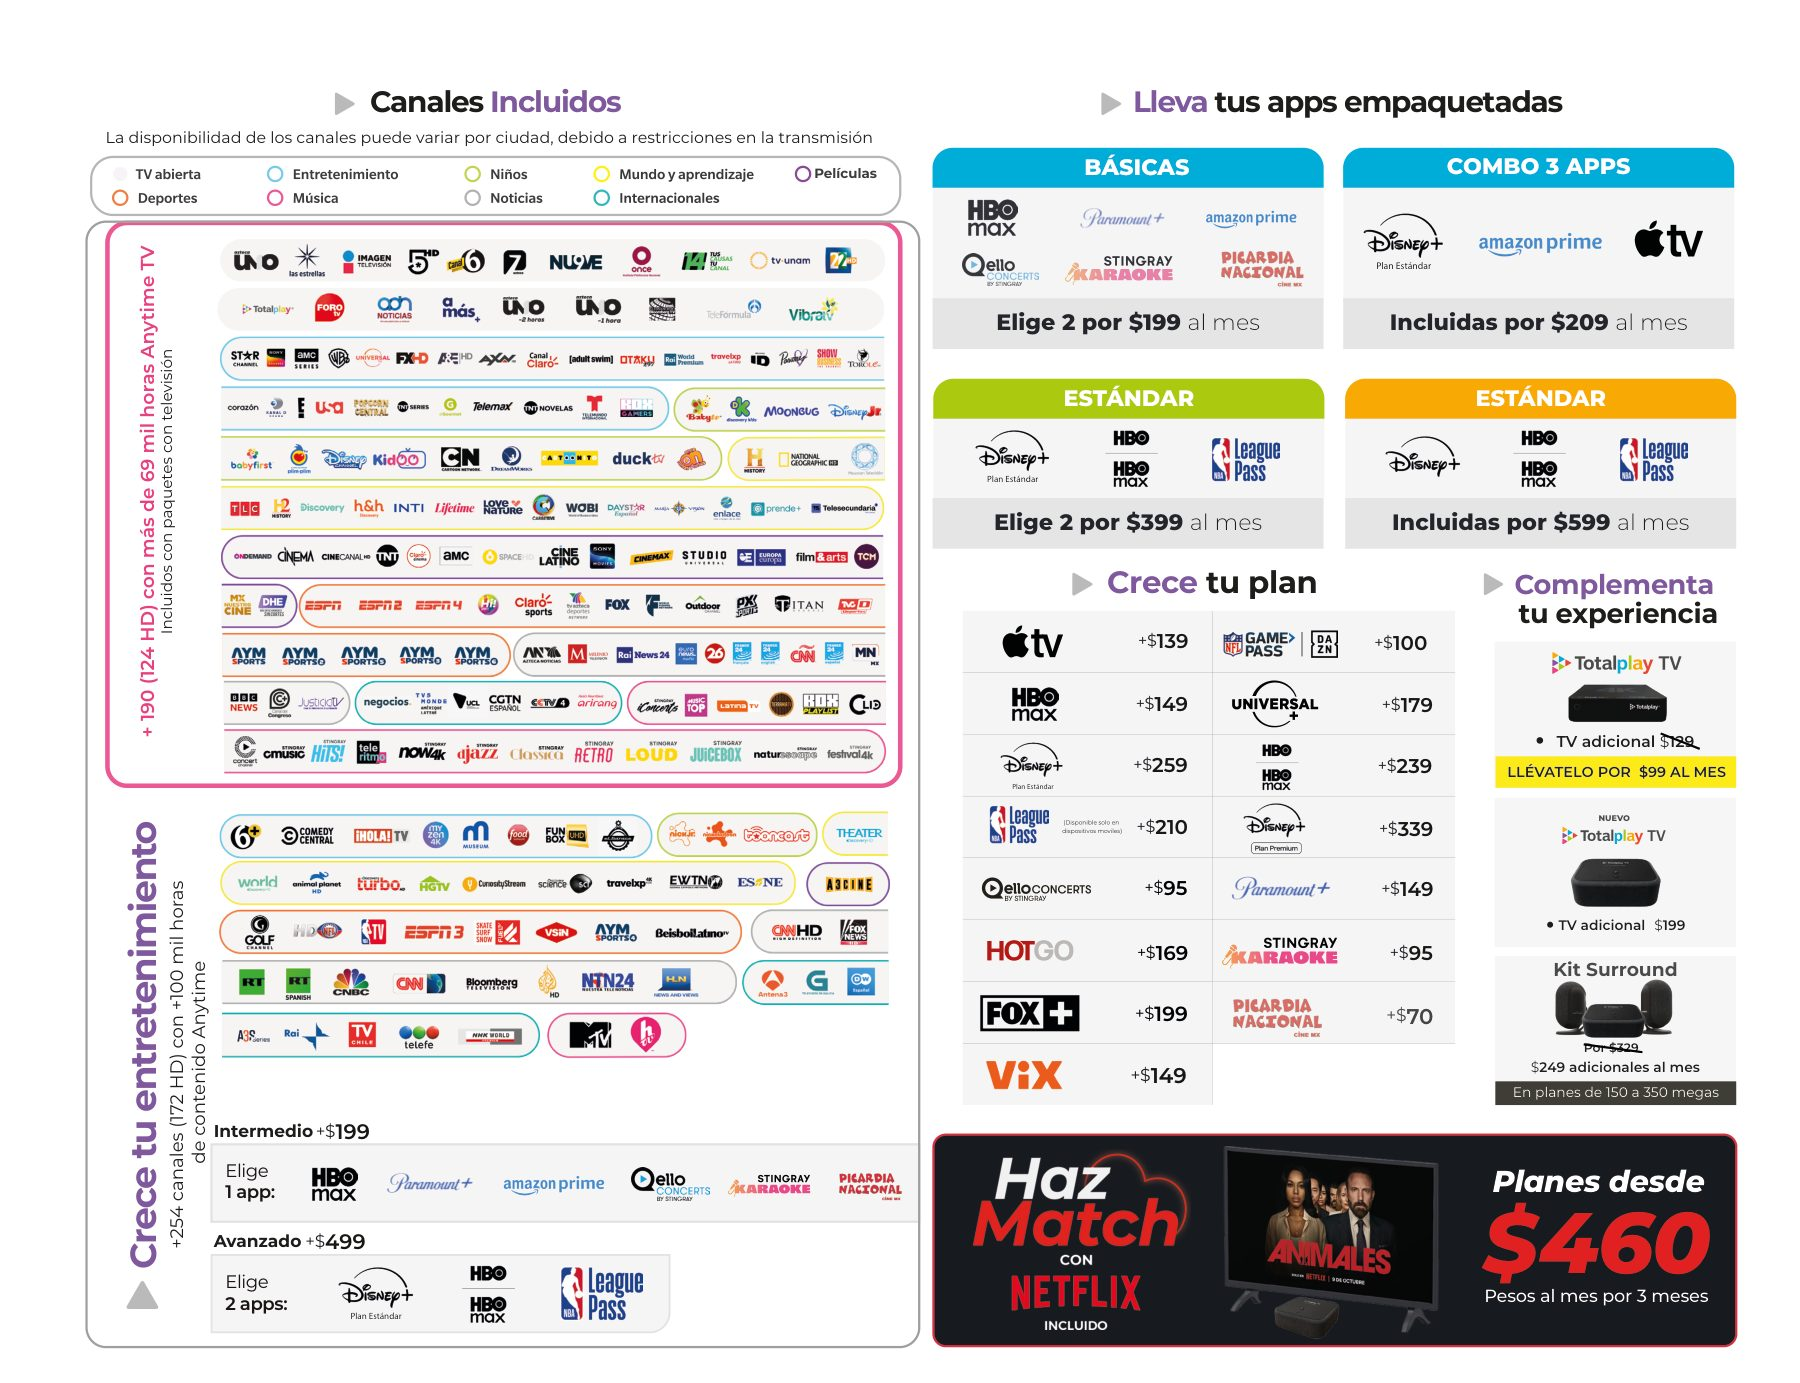
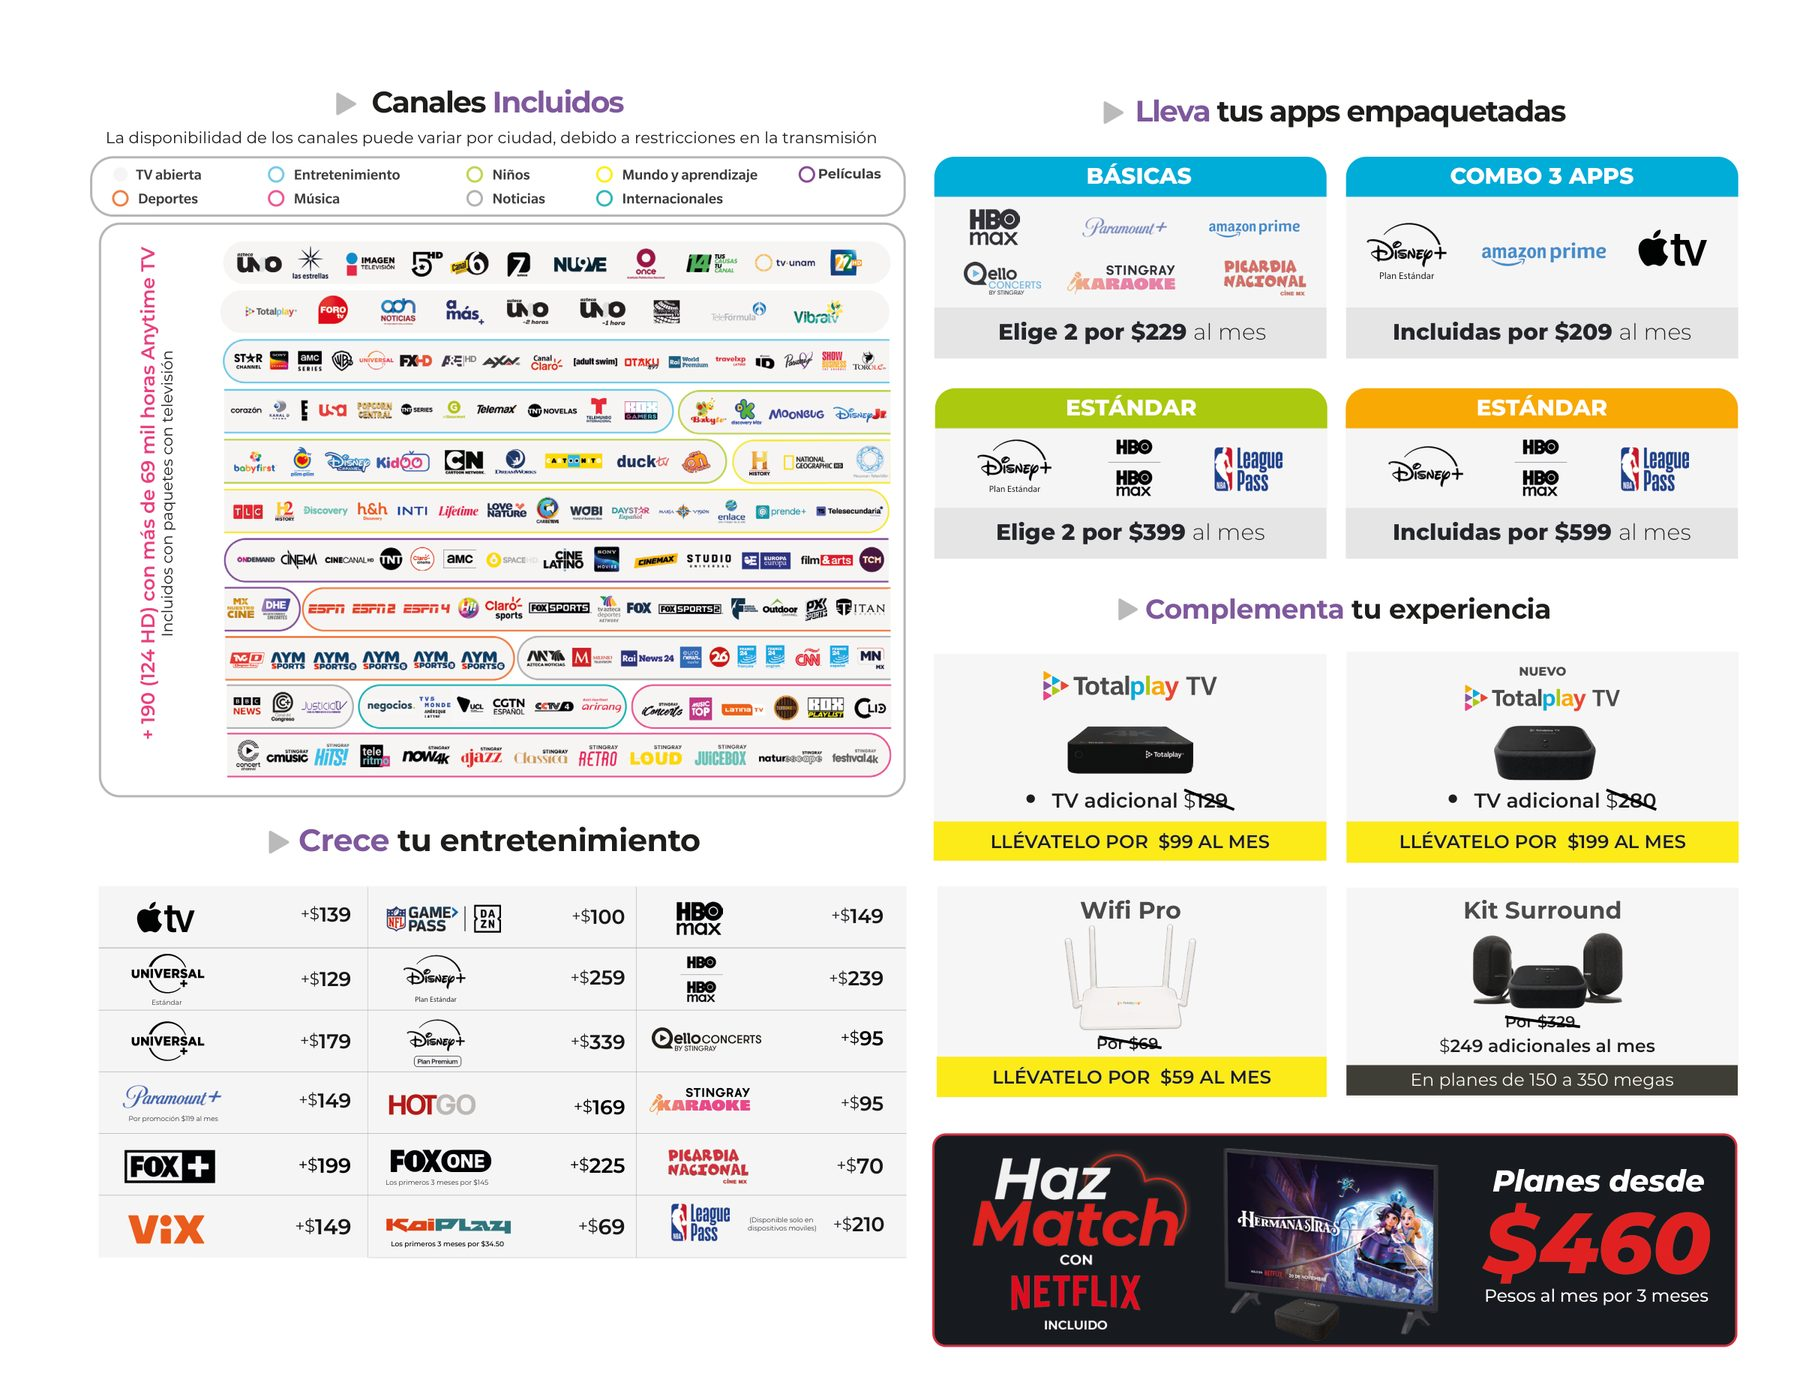
manteleta buen mes de noviembre y vigencias al 30 de noviembre, cache v54
Manteleta de Oferta Base "Buen Mes · La promocion ganadora" con las
dos hojas nuevas, vigente del 2 al 30 de noviembre de 2026. Planes y
Megas y las 4 secciones de Vende mas TIPs toman esa misma vigencia
(antes al 16 de noviembre). Cache v54.

Changed region(s): [[0.0311, 0.0622, 0.9644, 0.9645]]

diff --git a/index.html b/index.html
@@ -4983,7 +4983,7 @@
         <span class="sb-tag">🔥 Refuerzo de Ventas</span>
         <h3>Haz que cada venta<br><em>valga más</em></h3>
         <p class="sb-sub">No vendas solo internet — ofrece una experiencia completa de entretenimiento para toda la familia.</p>
-        <div class="sb-vigencia">📅 Vigencia: <span data-vigencia-fin>16 de noviembre de 2026</span></div>
+        <div class="sb-vigencia">📅 Vigencia: <span data-vigencia-fin>30 de noviembre de 2026</span></div>
       </div>
 
       <div class="sb-tip">
@@ -5897,7 +5897,7 @@
   </section>
 
   <section class="block" id="planes">
-    <div class="section-eyebrow">Planes con promoción · Buen Mes del 2 al 16 de noviembre de 2026</div>
+    <div class="section-eyebrow">Planes con promoción · Buen Mes del 2 al 30 de noviembre de 2026</div>
     <h2 class="section-title" id="planes-titulo">Totalplayer: TV + Internet o solo Internet</h2>
 
     <div class="tab-toggle">
@@ -6506,7 +6506,7 @@
         </figure>
       </div>
 
-      <p style="font-size:11.5px;color:#5b7a85;margin:16px 0 0;">Oferta base · <span data-vigencia-rango>Del 29 de septiembre al 31 de octubre de 2026</span> · Nacional. La disponibilidad de canales puede variar por ciudad debido a restricciones de transmisión.</p>
+      <p style="font-size:11.5px;color:#5b7a85;margin:16px 0 0;">Oferta base · <span data-vigencia-rango>Del 2 al 30 de noviembre de 2026</span> · Nacional. La disponibilidad de canales puede variar por ciudad debido a restricciones de transmisión.</p>
     </div>
   </section>
 
@@ -9549,10 +9549,10 @@ const SECCIONES = [
   { id:'dazn-seccion',            nav:'navDazn',              nombre:'NFL Game Pass en DAZN',        inicio:'2026-09-08', fin:null },
   { id:'paramount-seccion',       nav:'navParamount',         nombre:'UFC y ZUFFA por Paramount+',   inicio:'2026-10-01', fin:'2026-10-31' },
   { id:'tips-seccion',            nav:null,                   nombre:'Vende más TIPs',              fin:null },
-  { id:'superbundles-seccion',    nav:'navSuperBundles',      nombre:'Vende planes con TV',         inicio:'2026-11-02', fin:'2026-11-16' },
-  { id:'tips-ahorra-seccion',     nav:'navTipsAhorra',        nombre:'Ahorra más con TV',           inicio:'2026-11-02', fin:'2026-11-16' },
-  { id:'tips-comparativo-seccion',nav:'navTipsComparativo',   nombre:'150 vs 350 megas',            inicio:'2026-11-02', fin:'2026-11-16' },
-  { id:'tips-apps-seccion',       nav:'navTipsApps',          nombre:'Destacados de tus apps',       inicio:'2026-11-02', fin:'2026-11-16' },
+  { id:'superbundles-seccion',    nav:'navSuperBundles',      nombre:'Vende planes con TV',         inicio:'2026-11-02', fin:'2026-11-30' },
+  { id:'tips-ahorra-seccion',     nav:'navTipsAhorra',        nombre:'Ahorra más con TV',           inicio:'2026-11-02', fin:'2026-11-30' },
+  { id:'tips-comparativo-seccion',nav:'navTipsComparativo',   nombre:'150 vs 350 megas',            inicio:'2026-11-02', fin:'2026-11-30' },
+  { id:'tips-apps-seccion',       nav:'navTipsApps',          nombre:'Destacados de tus apps',       inicio:'2026-11-02', fin:'2026-11-30' },
   { id:'streaming-anuncios-seccion', nav:'navStreamingAds',   nombre:'Streaming con anuncios',       fin:null,
     navExtra:'navStreamingAdsSub' },
   { id:'blacknut-seccion',    nav:'navBlacknut',          nombre:'Blacknut',                    fin:'2026-09-30',
@@ -9564,7 +9564,7 @@ const SECCIONES = [
   { id:'vsb-seccion',         nav:'navVsb',               nombre:'Totalplay VSB',               inicio:'2026-09-29', fin:'2026-10-15' },
   { id:'crecelo-seccion',     nav:'navCrecelo',           nombre:'Crécelo Simétrico',           fin:null },
   { id:'alexa-seccion',       nav:'navAlexa',             nombre:'Actualización VSB (Alexa)',   fin:null },
-  { id:'manteleta-seccion',   nav:'navManteleta',         nombre:'Manteleta · Oferta Base',     inicio:'2026-09-29', fin:'2026-10-31' },
+  { id:'manteleta-seccion',   nav:'navManteleta',         nombre:'Manteleta · Oferta Base',     inicio:'2026-11-02', fin:'2026-11-30' },
   { id:'consecutivo',         nav:'navConsecutivo',       nombre:'Consecutivo de Promociones',  inicio:'2026-11-01', fin:'2026-11-30',
     navExtra:'navConsecutivoSub' },
   { id:'test-prospectos-seccion', nav:'navTestProspectos', nombre:'Test Prospectos',            fin:null },
@@ -9581,7 +9581,8 @@ const SECCIONES = [
 // ignoran solos y se pueden borrar de esta lista sin problema.
 const DIAS_AVISOS = 30;
 const AVISOS = [
-  { id:'2026-11-03-buenmes',fecha:'3 de noviembre 2026', texto:'¡Es el BUEN MES! Planes y Megas, del 2 al 16 de noviembre: Universal+ con anuncios sustituye a Disney+ en 150, 250 y 350 megas (5 meses con TV, 3 sin TV) y en todos los planes de solo Internet. El 350 megas ya no trae VSB incluido; de 500 megas en adelante con TV vienen Nuevo Totalplay TV, Totalplay Surround y WiFi 7. Nuevas opciones: 100 megas con HBO Max o Universal+ ($590 con TV, $499 sin TV) y 250 megas solo con Netflix ($779 con TV, $640 sin TV). El modelador ya usa MÁS APPS - UNIVERSAL+ INCLUIDO, y regresan los TIPs con las cuentas en Universal+ ($129).' },
+  { id:'2026-11-03-manteleta',fecha:'3 de noviembre 2026', texto:'Se actualizó la Manteleta de Oferta Base "Buen Mes · La promoción ganadora", vigente del 2 al 30 de noviembre del 2026: precios de pronto pago y de lista, descuento por lealtad y ahorro mensual en apps por plan, canales incluidos, apps empaquetadas, precios por separado y complementos (TV adicional, Nuevo Totalplay TV, WiFi Pro y Kit Surround).' },
+  { id:'2026-11-03-buenmes',fecha:'3 de noviembre 2026', texto:'¡Es el BUEN MES! Planes y Megas, del 2 al 30 de noviembre: Universal+ con anuncios sustituye a Disney+ en 150, 250 y 350 megas (5 meses con TV, 3 sin TV) y en todos los planes de solo Internet. El 350 megas ya no trae VSB incluido; de 500 megas en adelante con TV vienen Nuevo Totalplay TV, Totalplay Surround y WiFi 7. Nuevas opciones: 100 megas con HBO Max o Universal+ ($590 con TV, $499 sin TV) y 250 megas solo con Netflix ($779 con TV, $640 sin TV). El modelador ya usa MÁS APPS - UNIVERSAL+ INCLUIDO, y regresan los TIPs con las cuentas en Universal+ ($129).' },
   { id:'2026-11-03-consecutivo',fecha:'3 de noviembre 2026', texto:'Consecutivo de Promociones de noviembre (1 al 30): el Nuevo Totalplay TV Incluido vuelve a ser desde 500 megas. Nuevas: Nuevo Totalplay TV por $50 (250 y 350 megas), Kit VSB + Totalplay Surround por $249 (150 a 350 megas) y Megas ISSFAM (+50 megas para derechohabientes). FOX+ ya no está en Promociones de Contenido.' },
   { id:'2026-11-03-combo3',fecha:'3 de noviembre 2026', texto:'El Combo Especial 3 Apps sigue en noviembre: Disney+, Apple TV y Amazon Prime por $209 al mes, vigente al 30 de noviembre. Ahora con American Horror Story 13, Ted Lasso y Carrie en "¿Qué puede ver tu cliente?".' },
   { id:'2026-10-27-foxone',fecha:'27 de octubre 2026', texto:'¡NUEVA sección "FOX ONE · ¡Una jugada, todo el deporte!"! Tu cliente con Totalplay Internet o TV + Internet (100 a 10,000 megas) agrega FOX ONE por $145 al mes sus primeros 3 meses (después $225): Liga MX en vivo, AAA, MLB, NASCAR, Fórmula E, MXGP, PFL y CONCACAF Champions Cup, hasta en 5 dispositivos. Trae el selector "¿Qué deporte disfruta tu cliente?" con la frase lista, el verificador de "¿le aplica?", la jugada de venta en 4 toques, reglas, objeciones y el mensaje para WhatsApp.' },
@@ -9630,7 +9631,7 @@ const NUEVOS = [
   { navId:'navStreamingAds', tituloId:'sa-titulo',  fecha:'2026-08-13' },
   { navId:'navTipsApps',     tituloId:'da-titulo',  fecha:'2026-10-09' },
   { navId:'navBnJuegos',     tituloId:'bn-juegos',  fecha:'2026-08-14' },
-  { navId:'navManteleta',    tituloId:'manteleta-titulo', fecha:'2026-09-29' },
+  { navId:'navManteleta',    tituloId:'manteleta-titulo', fecha:'2026-11-03' },
   { navId:null,              tituloId:'vsb-promo350-titulo', fecha:'2026-08-21' },
   { navId:'navPlanes',       tituloId:'planes-titulo', fecha:'2026-09-29' },
   { navId:null,              tituloId:'plan350-titulo', fecha:'2026-08-21' },

diff --git a/sw.js b/sw.js
@@ -6,7 +6,7 @@
    número de CACHE (v2 → v3 → v4…). Ese cambio es lo que hace que los
    celulares que ya lo tienen instalado reciban la versión nueva. */
 
-const CACHE = 'tp-fuerzaventas-v53';
+const CACHE = 'tp-fuerzaventas-v54';
 
 const ARCHIVOS = [
   './',
